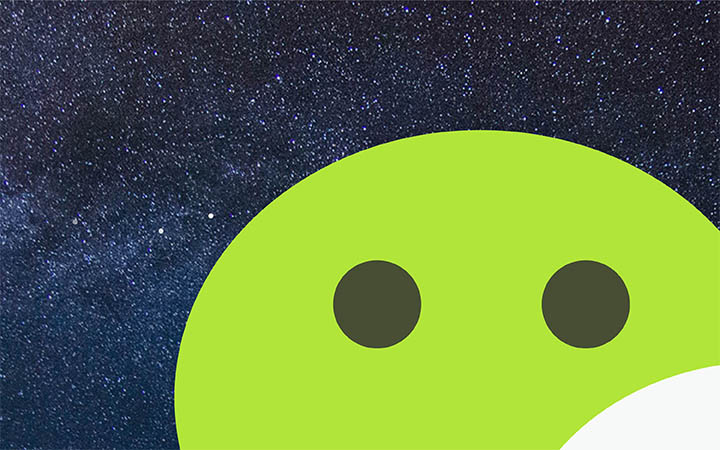
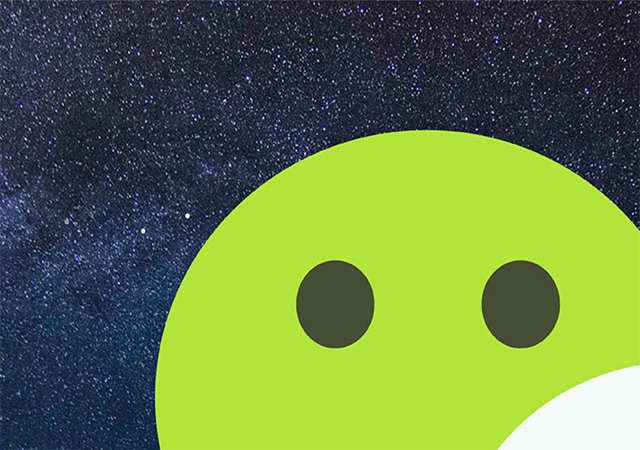
fix bug

diff --git a/trunk/css/index.css b/trunk/css/index.css
@@ -1,1 +1,1 @@
-.art-time,.art-title-wrap,.title-wrap{display:block}.head-date,.head-intro,.head-title,header .banner{position:absolute}.art-title,.as2{overflow:hidden}.sprite-sina-hov{background-position:-156px -172px;width:20px;height:16px}.sprite-weixin-hov{background-position:-741px -172px;width:21px;height:19px}.sprite-yixin-hov{background-position:-741px -191px;width:16px;height:16px}.sprite-videohov{background-position:-629px -172px;width:21px;height:21px}.sprite-radiohov{background-position:-655px -133px;width:26px;height:26px}/*!=header=*/header .main{height:520px}header .banner{top:0;left:50%;margin-left:-960px}.sprite-nav,.sprite-search{position:absolute;top:30px;cursor:pointer;transform:scale(.8)}.more-wrap .sprite-moreclose,.more-wrap .sprite-search2,.sprite-nav,.sprite-search{-webkit-transform:scale(.8);-moz-transform:scale(.8);-ms-transform:scale(.8);-o-transform:scale(.8)}.sprite-nav{left:0;z-index:50}.sprite-search{right:0;z-index:50}.head-title{padding:11px;border:1px solid #f2f2f2;width:400px;top:250px;left:24px;border-radius:4px}.head-title,.title-wrap{height:56px;-webkit-border-radius:4px;-moz-border-radius:4px}.title-wrap{width:378px;background:#fff;color:#231915;padding-left:22px;line-height:56px;font-size:26px;text-decoration:none;border-radius:4px}.head-intro{width:386px;color:#fff;font-size:14px;line-height:22px;left:37px;top:354px;text-shadow:0 0 1px #000;margin:0}.head-date{top:220px;left:25px}.head-date-title{font-size:36px;line-height:36px;color:#fff;float:left}.head-date-title span{color:#FAEE00;padding-right:6px}.head-date-time{color:#fff;float:left;margin:17px 0 0 12px}.head-date-time i{display:inline-block;width:10px;height:10px;margin-right:2px;background:#fff}.index h1,.ny h1{width:100%;height:86px;background:#e4b524;position:relative;z-index:60;box-shadow:0 2px 6px #ADADAD}.as1,.hot-img,.hot-list{box-shadow:0 0 4px #e2e2e2}.index h1 .sprite-nav,.index h1 .sprite-search,.ny h1 .sprite-nav,.ny h1 .sprite-search{display:none}.index h1 .main-title,.ny h1 .main-title{font-family:Arial,sans-serif;font-weight:400;width:392px;height:53px;padding-top:12px;background:#fff;border-left:1px solid #eaeaea;border-right:1px solid #eaeaea;position:absolute;left:50%;top:32px;margin-left:-196px;color:#F2C526;font-size:36px;line-height:26px;text-align:center}.art-col,.art-title-wrap{width:100%;position:relative}.phone,.qrcode-wrap blockquote strong{font-weight:700}.index h1 .main-sub-title,.ny h1 .main-sub-title{display:block;color:#b5b5b5;font-size:10px}.art-col{height:188px;margin-bottom:75px}.art-title-wrap:hover{background:#f7f8f8}.art-time{width:74px;height:73px;background:url(../img/t-time.png) no-repeat;text-align:center;line-height:73px;color:#282828;position:absolute;top:12px;left:8px;z-index:35}.art-author{color:#3e3c3a;position:absolute;top:26px;left:84px}.art-img,.art-title{position:absolute;display:block;left:0}.art-title{width:100%;height:74px;background:#efefef;color:#3d3d3a;font-size:24px;line-height:74px;top:0;text-indent:312px}.art-title-wrap:hover .art-title{color:#000}.art-img{top:47px;z-index:30}.art-share a,.art-share i,.art-tag i{font-style:normal;display:inline-block}.art-intro{color:#6c6c6c;font-size:14px;width:442px;position:absolute;left:320px;top:100px}.art-bottom{width:476px;position:absolute;top:168px;left:313px}.art-tag{float:left}.art-tag i{color:#f5b72d;margin-right:16px}.art-share{float:right}.footer-share li,.mail-area i,.mail-area input,.more-wrap .as-col,.mt-link li,.nav-col ul li{float:left}.art-share a,.art-share i{margin-right:9px;color:#6f6e6e}.art-share a{cursor:pointer;transition:none}.sprite-sina:hover{background-position:-156px -172px;width:20px;height:16px}.sprite-weixin:hover{background-position:-741px -172px;width:21px;height:19px}.sprite-yixin:hover{background-position:-741px -191px;width:16px;height:16px}.art-img-percent,.art-img-title,.art-img-wrap{display:block;width:100%}.art-img-wrap{background:#efefef;height:255px;margin-bottom:75px;position:relative}.art-img-tag{color:#b6b6b6;font-size:22px;position:absolute;top:20px;left:20px}.art-img-percent,.art-img-time,.art-img-title,.as1,.mail-area i,.sprite-video{position:relative}.art-img-percent{color:#f3c626;font-size:72px;line-height:72px;text-align:center;top:50px}.art-img-percent i{font-size:21px;font-style:normal}.art-img-time{display:block;text-align:center;font-size:12px;line-height:20px;top:38px;color:#b6b6b6}.sprite-video{margin:0 auto;top:40px}.art-img-title{text-align:center;font-size:24px;color:#6b6b68;top:58px;line-height:28px}.art-img-wrap:hover{background:#f7f8f8}.art-img-wrap:hover .art-img-percent{color:#f9a717}.art-img-wrap:hover .sprite-video{background-position:-629px -172px;width:21px;height:21px}.as-col{margin:0 14px 50px}.as-title{font-size:20px;color:#232323}.index aside .login,.ny aside .login{display:block;width:280px;height:50px;line-height:50px;text-align:center;cursor:pointer;background:#f1c625;color:#fffffc;font-size:16px;margin:24px auto 12px}.as1{width:100%;height:312px;background:#fff}.as1 p{text-align:center;color:#373737;font-size:14px;margin:0}.mail-area{margin:0 18px;padding-top:30px}.mail-area i{top:9px;margin-right:6px}.copyright,.footer-share,.phone,.phone i,.qrcode-wrap,.sprite-about{position:absolute}.mail-txt{width:189px;height:37px;border:1px solid #c4c4c4;line-height:37px;padding:0 0 0 14px;font-size:14px;margin:0}.mail-btn{display:block;width:246px;height:42px;background:#f1c625;color:#fffffc;font-size:16px;text-align:center;line-height:42px;margin:8px auto 14px;cursor:pointer}.index aside .login:hover,.mail-btn:hover,.ny aside .login:hover{background:#f9a717}.qrcode{display:block;margin:0 auto}.mt-link{margin-left:-36px;width:320px}.mt-link li{margin-right:30px;width:75px;list-style:none;margin-bottom:25px}.mt-link li a{color:#616161;font-size:14px}.mt-link li a:hover{color:#f9a717}.hot-img a,.hot-img li a,.hot-list li a{color:#232323;font-size:16px}.hot-img,.hot-list{width:280px;height:190px;background:#fff;margin-bottom:18px;overflow:hidden}.hot-img ul,.hot-list ul{display:block;margin:17px 0 0 6px;padding:0}.hot-img li,.hot-list li{list-style:none;padding:0;margin-bottom:4px}.hot-img{height:176px}.hot-img a{display:block;margin:16px 0 10px 6px}.footer-share{top:30px;left:0}.footer-share li{list-style:none;margin-right:10px}.copyright{color:#AEADAD;font-size:12px;top:148px;left:45px}.phone{color:#FF7300;font-size:58px;right:20px;top:20px;font-family:Impact,Arial,sans-serif}.phone i{right:0;bottom:-84px}.sprite-about{right:60px;top:140px}.qrcode-wrap{display:none;z-index:101}.qrcode-wrap p{font-size:18px;color:#595757;margin:18px 0 10px 50px}.qrcode-wrap blockquote{margin:0 0 10px 50px;color:#595757;font-size:14px}.qrcode-wrap img{display:block;margin-left:160px}footer .qrcode-wrap{top:-150px}.art-bottom .qrcode-wrap{top:-222px}#qrwrap{left:116px}#qrwrap2{left:344px}.qrwrap3{left:444px}.qrwrap4{left:471px}#index-wx,#index-yixin{position:relative}.more-wrap{position:fixed;width:100%;height:100%;z-index:102;display:none;top:0}.more-wrap .more-bg{background:#fff;opacity:.95;width:100%;height:100%;position:absolute;top:0;left:0}.more-wrap .sprite-moreclose,.more-wrap .sprite-search2{position:absolute;top:-75px;transform:scale(.8)}.more-wrap .sprite-moreclose{left:0;cursor:pointer}.more-wrap .sprite-search2{right:0}.more-wrap .as1{width:282px;margin-right:57px}.more-wrap .as3{width:236px;color:#595757;font-size:18px;line-height:35px}.more-wrap .as-intro{padding-left:25px;border-left:1px solid #c2c2c2;margin-left:107px}.nav-col h2{font-size:24px;color:#3E3A39;margin:110px 0 70px}.more-share,.nav-col ul li a{display:block;font-size:18px}.nav-col .sprite,.nav-col span{float:left;position:relative}.nav-col .sprite{top:4px;margin-right:8px}.nav-col span{line-height:24px;padding-bottom:10px;border-bottom:2px solid #3f3f3f}.pop1,.pop2{padding:0 75px}.nav-col ul{width:590px}.nav-col ul li{list-style:none;margin-right:55px;margin-bottom:36px}.nav-col ul li a{width:60px;color:#595757}.nav-col ul li a:hover{color:#f6a717}.more-share{width:295px;height:90px;line-height:90px;border-bottom:1px solid #c2c2c2;margin-bottom:20px;font-family:Candara,sans-serif;color:#3C4148}.more-share .sprite{display:inline-block;position:relative;top:20px;margin-right:24px}.pop{position:fixed;left:50%;top:50%;z-index:999;background:#fff;display:none}.pop .pop-btn{display:block;margin:20px auto;width:260px;height:50px;line-height:50px;color:#fff;background:#F2C526;text-align:center;font-size:24px;cursor:pointer}.pop .pop-btn:hover{background:#f6a717}.pop1{width:542px;margin-left:-346px}.pop1 .pop-title{color:#C9CACA;font-size:34px;line-height:34px;margin-bottom:50px}.pop1 .mail-list input{display:none}.pop1 .mail-list li{width:495px;height:67px;line-height:67px;list-style:none;position:relative}.pop1 .mail-list .sprite{position:absolute;top:22px;right:0}.pop1 .mail-list-name{display:block;width:100%;height:100%;color:#898989;font-size:24px;margin:0;cursor:pointer}.mail-list li :checked+.mail-list-name{color:#000}.mail-list li :checked+.mail-list-name i{background-position:-655px -133px;width:26px;height:26px}#select-all{color:#898989;font-size:14px;position:absolute;right:44px;top:40px}.pop2{width:500px;margin-left:-325px;height:320px;margin-top:-160px}.pop2 .suc-wrap{width:457px;height:113px;padding-bottom:34px;border-bottom:1px solid #F9A717;margin:65px auto 0;position:relative}.pop2 .sprite{position:absolute;top:0;left:0}.pop2 h2,.pop2 p{position:absolute;left:120px}.pop2 h2{color:#F9A818;font-size:48px;top:0}.pop2 p{color:#9FA0A0;font-size:24px;line-height:24px;top:62px}.pop3{width:480px;height:280px;margin-left:-240px;margin-top:-140px}.pop3 .pop-title{color:#C9CACA;font-size:34px;text-align:center;margin:74px 0 58px}.pop3 .pop-btn{display:inline-block;margin-left:100px;margin-right:6px}.pop3 .pop-close{display:inline-block;color:#2EA7E0;font-size:14px;cursor:pointer}@media screen and (max-width:1200px){.art-title,.copyright,.mail-area,.phone{text-align:center}#wrap{width:100%;min-width:100%}.main{width:auto;margin:0 3.333%}article{width:100%}header,header .main{height:450px}header .banner{height:100%;width:auto;-webkit-transform:translate3D(-50%,0,0);-moz-transform:translate3D(-50%,0,0);-ms-transform:translate3D(-50%,0,0);-o-transform:translate3D(-50%,0,0);transform:translate3D(-50%,0,0);margin:0}.head-date{top:130px}.head-title{top:170px;width:83%}.title-wrap{width:92%;font-size:18px}.head-intro{top:273px;width:83%}.more-wrap .sprite-moreclose,.more-wrap .sprite-search2,.sprite-nav,.sprite-search{-webkit-transform:scale(.75);-moz-transform:scale(.75);-ms-transform:scale(.75);-o-transform:scale(.75);transform:scale(.75)}.more-wrap .sprite-nav,.more-wrap .sprite-search{top:-145px}.sprite-moreclose,.sprite-search2{top:-100px}h1{height:65px}h1 .main-title{top:20px}.art-col{height:auto}.art-author{display:none}.art-img{width:100%;position:static}.art-title{font-size:19px;text-indent:66px;position:relative}.art-time{top:34px;left:0}.art-intro{position:static;width:100%;font-size:18px;line-height:1.5}.art-bottom{width:100%;position:relative;top:0;left:0}.art-share a,.art-share i,.art-tag i{font-size:14px}h1 .main-title{width:57.22%;margin-left:-28%}.hot-img,.hot-list,.mt-link,aside{width:100%}.mail-area i,.mail-area input{display:inline-block;float:none}.hot-img img{width:100%;display:block}.footer-share{width:346px;-webkit-transform:scale(.5);-moz-transform:scale(.5);-ms-transform:scale(.5);-o-transform:scale(.5);transform:scale(.5);margin:0 auto;padding:0;position:static}.copyright,.phone,.qrcode-wrap{-webkit-transform:scale(.7);-moz-transform:scale(.7);-ms-transform:scale(.7);-o-transform:scale(.7);transform:scale(.7)}.copyright,.phone,.sprite-about{position:relative;margin:0;left:0}.copyright{position:relative;top:-22px;left:0}.phone{top:-10px;right:0;margin-bottom:10px}.sprite-about{margin:0 auto;left:0;top:0}.qrcode-wrap{left:-3%;top:-123px}.sprite-phone{display:none}.more-wrap{position:absolute}.more-wrap .as1,.more-wrap .as3{width:100%}.more-wrap .as-col{float:none;border:0;padding:0}.more-wrap .as-intro{margin-left:0}.nav-col ul{width:90%;margin:0 auto;padding:0}#qrwrap2{left:162px}}
+.art-title,.as2{overflow:hidden}.sprite-sina-hov{background-position:-156px -172px;width:20px;height:16px}.sprite-weixin-hov{background-position:-741px -172px;width:21px;height:19px}.sprite-yixin-hov{background-position:-741px -191px;width:16px;height:16px}.sprite-videohov{background-position:-629px -172px;width:21px;height:21px}.sprite-radiohov{background-position:-655px -133px;width:26px;height:26px}/*!=header=*/header .main{height:520px}header .banner,header .banner_s{position:absolute;top:0;left:50%;-webkit-transform:translate3d(-50%,0,0);-moz-transform:translate3d(-50%,0,0);-ms-transform:translate3d(-50%,0,0);transform:translate3d(-50%,0,0)}header .banner_s{display:none}.art-time,.art-title-wrap,.title-wrap{display:block}.sprite-nav,.sprite-search{position:absolute;top:30px;transform:scale(.8)}.more-wrap .sprite-moreclose,.more-wrap .sprite-search2,.sprite-nav,.sprite-search{cursor:pointer;-webkit-transform:scale(.8);-moz-transform:scale(.8);-ms-transform:scale(.8);-o-transform:scale(.8)}.sprite-nav{left:0;z-index:50}.sprite-search{right:0;z-index:50}.head-title{padding:11px;border:1px solid #f2f2f2;width:400px;position:absolute;top:250px;left:24px;border-radius:4px}.head-title,.title-wrap{height:56px;-webkit-border-radius:4px;-moz-border-radius:4px}.title-wrap{width:378px;background:#fff;color:#231915;padding-left:22px;line-height:56px;font-size:26px;text-decoration:none;border-radius:4px}.head-intro{width:386px;color:#fff;font-size:14px;line-height:22px;position:absolute;left:37px;top:354px;text-shadow:0 0 1px #000;margin:0}.head-date{position:absolute;top:220px;left:25px}.head-date-title{font-size:36px;line-height:36px;color:#fff;float:left}.head-date-title span{color:#FAEE00;padding-right:6px}.head-date-time{color:#fff;float:left;margin:17px 0 0 12px}.head-date-time i{display:inline-block;width:10px;height:10px;margin-right:2px;background:#fff}.index h1,.ny h1{width:100%;height:86px;background:#e4b524;position:relative;z-index:60;box-shadow:0 2px 6px #ADADAD}.as1,.hot-img,.hot-list{box-shadow:0 0 4px #e2e2e2}.index h1 .sprite-nav,.index h1 .sprite-search,.ny h1 .sprite-nav,.ny h1 .sprite-search{display:none}.index h1 .main-title,.ny h1 .main-title{font-family:Arial,sans-serif;font-weight:400;width:392px;height:53px;padding-top:12px;background:#fff;border-left:1px solid #eaeaea;border-right:1px solid #eaeaea;position:absolute;left:50%;top:32px;margin-left:-196px;color:#F2C526;font-size:36px;line-height:26px;text-align:center}.art-col,.art-title-wrap{width:100%;position:relative}.phone,.qrcode-wrap blockquote strong{font-weight:700}.index h1 .main-sub-title,.ny h1 .main-sub-title{display:block;color:#b5b5b5;font-size:10px}.art-col{height:188px;margin-bottom:75px}.art-title-wrap:hover{background:#f7f8f8}.art-time{width:74px;height:73px;background:url(../img/t-time.png) no-repeat;text-align:center;line-height:73px;color:#282828;position:absolute;top:12px;left:8px;z-index:35}.art-author{color:#3e3c3a;position:absolute;top:26px;left:84px}.art-img,.art-title{position:absolute;display:block;left:0}.art-title{width:100%;height:74px;background:#efefef;color:#3d3d3a;font-size:24px;line-height:74px;top:0;text-indent:312px}.art-title-wrap:hover .art-title{color:#000}.art-img{top:47px;z-index:30}.art-share a,.art-share i,.art-tag i{font-style:normal;display:inline-block}.art-intro{color:#6c6c6c;font-size:14px;width:442px;position:absolute;left:320px;top:100px}.art-bottom{width:476px;position:absolute;top:168px;left:313px}.art-tag{float:left}.art-tag i{color:#f5b72d;margin-right:16px}.art-share{float:right}.art-share a,.art-share i{margin-right:9px;color:#6f6e6e}.art-share a{cursor:pointer;transition:none}.sprite-sina:hover{background-position:-156px -172px;width:20px;height:16px}.sprite-weixin:hover{background-position:-741px -172px;width:21px;height:19px}.sprite-yixin:hover{background-position:-741px -191px;width:16px;height:16px}.art-img-percent,.art-img-title,.art-img-wrap{display:block;width:100%}.art-img-wrap{background:#efefef;height:255px;margin-bottom:75px;position:relative}.art-img-tag{color:#b6b6b6;font-size:22px;position:absolute;top:20px;left:20px}.art-img-percent,.art-img-time,.art-img-title,.as1,.mail-area i,.sprite-video{position:relative}.art-img-percent{color:#f3c626;font-size:72px;line-height:72px;text-align:center;top:50px}.art-img-percent i{font-size:21px;font-style:normal}.art-img-time{display:block;text-align:center;font-size:12px;line-height:20px;top:38px;color:#b6b6b6}.sprite-video{margin:0 auto;top:40px}.art-img-title{text-align:center;font-size:24px;color:#6b6b68;top:58px;line-height:28px}.art-img-wrap:hover{background:#f7f8f8}.art-img-wrap:hover .art-img-percent{color:#f9a717}.art-img-wrap:hover .sprite-video{background-position:-629px -172px;width:21px;height:21px}.as-col{margin:0 14px 50px}.as-title{font-size:20px;color:#232323}.index aside .login,.ny aside .login{display:block;width:280px;height:50px;line-height:50px;text-align:center;cursor:pointer;background:#f1c625;color:#fffffc;font-size:16px;margin:24px auto 12px}.as1{width:100%;height:312px;background:#fff}.as1 p{text-align:center;color:#373737;font-size:14px;margin:0}.mail-area{margin:0 18px;padding-top:30px}.mail-area i,.mail-area input{float:left}.mail-area i{top:9px;margin-right:6px}.copyright,.footer-share,.phone,.phone i,.qrcode-wrap,.sprite-about{position:absolute}.mail-txt{width:189px;height:37px;border:1px solid #c4c4c4;line-height:37px;padding:0 0 0 14px;font-size:14px;margin:0}.mail-btn{display:block;width:246px;height:42px;background:#f1c625;color:#fffffc;font-size:16px;text-align:center;line-height:42px;margin:8px auto 14px;cursor:pointer}.index aside .login:hover,.mail-btn:hover,.ny aside .login:hover{background:#f9a717}.qrcode{display:block;margin:0 auto}.mt-link{margin-left:-36px;width:320px}.mt-link li{float:left;margin-right:30px;width:75px;list-style:none;margin-bottom:25px}.mt-link li a{color:#616161;font-size:14px}.mt-link li a:hover{color:#f9a717}.hot-img a,.hot-img li a,.hot-list li a{color:#232323;font-size:16px}.hot-img,.hot-list{width:280px;height:190px;background:#fff;margin-bottom:18px;overflow:hidden}.hot-img ul,.hot-list ul{display:block;margin:17px 0 0 6px;padding:0}.hot-img li,.hot-list li{list-style:none;padding:0;margin-bottom:4px}.hot-img{height:176px}.hot-img a{display:block;margin:16px 0 10px 6px}.footer-share{top:30px;left:0}.footer-share li{list-style:none;float:left;margin-right:10px}.copyright{color:#AEADAD;font-size:12px;top:148px;left:45px}.phone{color:#FF7300;font-size:58px;right:20px;top:20px;font-family:Impact,Arial,sans-serif}.phone i{right:0;bottom:-84px}.sprite-about{right:60px;top:140px}.qrcode-wrap{display:none;z-index:101}.qrcode-wrap p{font-size:18px;color:#595757;margin:18px 0 10px 50px}.qrcode-wrap blockquote{margin:0 0 10px 50px;color:#595757;font-size:14px}.qrcode-wrap img{display:block;margin-left:160px}footer .qrcode-wrap{top:-150px}.art-bottom .qrcode-wrap{top:-222px}#qrwrap{left:116px}#qrwrap2{left:344px}.qrwrap3{left:444px}.qrwrap4{left:471px}#index-wx,#index-yixin{position:relative}.more-wrap{position:fixed;width:100%;height:100%;z-index:102;display:none;top:0}.more-wrap .more-bg{background:#fff;opacity:.95;width:100%;height:100%;position:absolute;top:0;left:0}.more-wrap .sprite-moreclose,.more-wrap .sprite-search2{position:absolute;top:-75px;transform:scale(.8)}.more-wrap .sprite-moreclose{left:0;cursor:pointer}.more-wrap .sprite-search2{right:0}.more-wrap .as1{width:282px;margin-right:57px}.more-wrap .as-col{float:left}.more-wrap .as3{width:236px;color:#595757;font-size:18px;line-height:35px}.more-wrap .as-intro{padding-left:25px;border-left:1px solid #c2c2c2;margin-left:107px}.nav-col h2{font-size:24px;color:#3E3A39;margin:110px 0 70px}.more-share,.nav-col ul li a{display:block;font-size:18px}.nav-col .sprite,.nav-col span{float:left;position:relative}.nav-col .sprite{top:4px;margin-right:8px}.nav-col span{line-height:24px;padding-bottom:10px;border-bottom:2px solid #3f3f3f}.nav-col ul{width:590px}.nav-col ul li{float:left;list-style:none;margin-right:55px;margin-bottom:36px}.nav-col ul li a{width:60px;color:#595757}.nav-col ul li a:hover{color:#f6a717}.more-share{width:295px;height:90px;line-height:90px;border-bottom:1px solid #c2c2c2;margin-bottom:20px;font-family:Candara,sans-serif;color:#3C4148}.more-share .sprite{display:inline-block;position:relative;top:20px;margin-right:24px}#search-wrap .sprite-moreclose,#search-wrap .sprite-search2{top:-2px}#search-wrap .search-input-wrap{width:100%;height:28px;padding-bottom:8px;border-bottom:1px solid #9FA0A0;margin:29px 0 40px}#search-wrap .search-txt{height:28px;line-height:28px;width:94%;border:0;background:0;padding:0 2% 0 0;color:#F9A818;font-size:24px;text-align:right;border-right:1px solid #f9a818}.pop1,.pop2{padding:0 75px}#search-wrap .search-txt::-webkit-input-placeholder{color:#B5B5B6}#search-wrap .search-txt:-ms-input-placeholder{color:#B5B5B6}#search-wrap .search-txt::-moz-placeholder{color:#B5B5B6}#search-wrap .nav-col h2{margin:0 0 33px}.result-wrap{width:100%;height:555px;overflow-y:scroll}.search-col{width:758px;margin-bottom:60px}.search-img{float:left;margin-right:20px}.search-title{font-size:22px;color:#3E3A39;display:block;margin-bottom:22px}.search-intro{color:#565656;font-size:14px;line-height:24px;height:68px;overflow:hidden}.search-intro strong{color:#f9a818}.search-author,.search-time{color:#282828;font-weight:700}.pop{position:fixed;left:50%;top:50%;z-index:999;background:#fff;display:none}.pop .pop-btn{display:block;margin:20px auto;width:260px;height:50px;line-height:50px;color:#fff;background:#F2C526;text-align:center;font-size:24px;cursor:pointer}.pop .pop-btn:hover{background:#f6a717}.pop1{width:542px;margin-left:-346px}.pop1 .pop-title{color:#C9CACA;font-size:34px;line-height:34px;margin-bottom:50px}.pop1 .mail-list input{display:none}.pop1 .mail-list li{width:495px;height:67px;line-height:67px;list-style:none;position:relative}.pop1 .mail-list .sprite{position:absolute;top:22px;right:0}.pop1 .mail-list-name{display:block;width:100%;height:100%;color:#898989;font-size:24px;margin:0;cursor:pointer}.mail-list li :checked+.mail-list-name{color:#000}.mail-list li :checked+.mail-list-name i{background-position:-655px -133px;width:26px;height:26px}#select-all{color:#898989;font-size:14px;position:absolute;right:44px;top:40px}.pop2{width:500px;margin-left:-325px;height:320px;margin-top:-160px}.pop2 .suc-wrap{width:457px;height:113px;padding-bottom:34px;border-bottom:1px solid #F9A717;margin:65px auto 0;position:relative}.pop2 .sprite{position:absolute;top:0;left:0}.pop2 h2,.pop2 p{position:absolute;left:120px}.pop2 h2{color:#F9A818;font-size:48px;top:0}.pop2 p{color:#9FA0A0;font-size:24px;line-height:24px;top:62px}.pop3{width:480px;height:280px;margin-left:-240px;margin-top:-140px}.pop3 .pop-title{color:#C9CACA;font-size:34px;text-align:center;margin:74px 0 58px}.pop3 .pop-btn{display:inline-block;margin-left:100px;margin-right:6px}.pop3 .pop-close{display:inline-block;color:#2EA7E0;font-size:14px;cursor:pointer}@media screen and (max-width:1200px){.art-title,.copyright,.mail-area,.phone{text-align:center}#wrap{width:100%;min-width:100%}.main{width:auto;margin:0 3.333%}article{width:100%}header,header .main{height:450px}header .banner{display:none}header .banner_s{display:block;width:100%;height:100%}.head-date{top:130px}.head-title{top:170px;width:83%}.title-wrap{width:92%;font-size:18px}.head-intro{top:273px;width:83%}.more-wrap .sprite-moreclose,.more-wrap .sprite-search2,.sprite-nav,.sprite-search{-webkit-transform:scale(.75);-moz-transform:scale(.75);-ms-transform:scale(.75);-o-transform:scale(.75);transform:scale(.75)}.more-wrap .sprite-nav,.more-wrap .sprite-search{top:-145px}.sprite-moreclose,.sprite-search2{top:-100px}h1{height:65px}.index h1 .main-title,.ny h1 .main-title{width:57.22%;margin-left:-28%}.art-bottom,.art-img,.art-intro,.hot-img,.hot-list,.mt-link,aside{width:100%}.art-col{height:auto}.art-author{display:none}.art-img{position:static}.art-title{font-size:19px;text-indent:66px;position:relative}.art-time{top:34px;left:0}.art-intro{position:static;font-size:18px;line-height:1.5}.art-bottom{position:relative;top:0;left:0}.art-share a,.art-share i,.art-tag i{font-size:14px}.mail-area i,.mail-area input{display:inline-block;float:none}.hot-img img{width:100%;display:block}.footer-share{width:346px;-webkit-transform:scale(.5);-moz-transform:scale(.5);-ms-transform:scale(.5);-o-transform:scale(.5);transform:scale(.5);margin:0 auto;padding:0;position:static}.copyright,.phone,.qrcode-wrap{-webkit-transform:scale(.7);-moz-transform:scale(.7);-ms-transform:scale(.7);-o-transform:scale(.7);transform:scale(.7)}.copyright,.phone,.sprite-about{position:relative;margin:0;left:0}.copyright{position:relative;top:-22px;left:0}.phone{top:-10px;right:0;margin-bottom:10px}.sprite-about{margin:0 auto;left:0;top:0}.qrcode-wrap{left:-3%;top:-123px}.sprite-phone{display:none}.more-wrap{position:absolute}.more-wrap .as1,.more-wrap .as3{width:100%}.more-wrap .as-col{float:none;border:0;padding:0}.more-wrap .as-intro{margin-left:0}.nav-col ul{width:90%;margin:0 auto;padding:0}#qrwrap2{left:162px}}

diff --git a/trunk/index.html b/trunk/index.html
@@ -21,8 +21,8 @@
     <nav class="more-wrap" id="more-wrap">
         <div class="more-bg"></div>
         <div class="main">
-            <a class="sprite sprite-moreclose" id="nav-close"></a>
-            <a href="" class="sprite sprite-search2"></a>
+            <a class="sprite sprite-moreclose nav-close"></a>
+            <a class="sprite sprite-search2"></a>
             <div class="nav-col">
                 <h2 class="g-clr"><i class="sprite sprite-tag2"></i><span>文章标签</span></h2>
                 <ul class="g-clr">
@@ -67,15 +67,92 @@
             </div>
         </div>
     </nav>
-    <div class="search-wrap" id="search-wrap">
+    <div class="more-wrap" id="search-wrap">
         <div class="more-bg"></div>
+        <div class="main">
+            <a class="sprite sprite-moreclose nav-close"></a>
+            <a class="sprite sprite-search2"></a>
+            <div class="search-input-wrap">
+                <input type="text" placeholder="搜索文字" class="search-txt"/>
+            </div>
+            <div class="nav-col">
+                <h2 class="as-title g-clr">
+                    <i class="sprite sprite-result"></i>
+                    <span>共有<i id="search-num">16</i>篇相关报告</span></h2>
+            </div>
+            <!-- 搜索结果 Start-->
+            <div class="result-wrap">
+                <!-- 图文列表 start-->
+                <div class="search-col g-clr">
+                    <a href="#" class="search-title-wrap" target="_blank" title="2015年3月通信运营数据4G用户数达1.6亿">
+                        <img src="test.jpg" alt="2015年3月通信运营数据4G用户数达1.6亿" class="search-img"/>
+                        <span class="search-title">2015年3月通信运营数据4G用户数达1.6亿</span>
+                        <p class="search-intro">工信部近日<strong>发布</strong>3月份通信数据。数据显示，截至3月底，我国4G总用户数达到1.62亿，8M及以上宽带用户占比达46.4%。</p>
+                        <span class="search-author">Mr.Kang</span> \ <span class="search-time">昨天下午</span>
+                    </a>
+                </div>
+                <!-- 图文列表 end-->
+                <!-- 图文列表 start-->
+                <div class="search-col g-clr">
+                    <a href="#" class="search-title-wrap" target="_blank" title="2015年3月通信运营数据4G用户数达1.6亿">
+                        <img src="test.jpg" alt="2015年3月通信运营数据4G用户数达1.6亿" class="search-img"/>
+                        <span class="search-title">2015年3月通信运营数据4G用户数达1.6亿</span>
+                        <p class="search-intro">工信部近日<strong>发布</strong>3月份通信数据。数据显示，截至3月底，我国4G总用户数达到1.62亿，8M及以上宽带用户占比达46.4%。</p>
+                        <span class="search-author">Mr.Kang</span> \ <span class="search-time">昨天下午</span>
+                    </a>
+                </div>
+                <!-- 图文列表 end-->
+                <!-- 图文列表 start-->
+                <div class="search-col g-clr">
+                    <a href="#" class="search-title-wrap" target="_blank" title="2015年3月通信运营数据4G用户数达1.6亿">
+                        <img src="test.jpg" alt="2015年3月通信运营数据4G用户数达1.6亿" class="search-img"/>
+                        <span class="search-title">2015年3月通信运营数据4G用户数达1.6亿</span>
+                        <p class="search-intro">工信部近日<strong>发布</strong>3月份通信数据。数据显示，截至3月底，我国4G总用户数达到1.62亿，8M及以上宽带用户占比达46.4%。</p>
+                        <span class="search-author">Mr.Kang</span> \ <span class="search-time">昨天下午</span>
+                    </a>
+                </div>
+                <!-- 图文列表 end-->
+                <!-- 图文列表 start-->
+                <div class="search-col g-clr">
+                    <a href="#" class="search-title-wrap" target="_blank" title="2015年3月通信运营数据4G用户数达1.6亿">
+                        <img src="test.jpg" alt="2015年3月通信运营数据4G用户数达1.6亿" class="search-img"/>
+                        <span class="search-title">2015年3月通信运营数据4G用户数达1.6亿</span>
+                        <p class="search-intro">工信部近日<strong>发布</strong>3月份通信数据。数据显示，截至3月底，我国4G总用户数达到1.62亿，8M及以上宽带用户占比达46.4%。</p>
+                        <span class="search-author">Mr.Kang</span> \ <span class="search-time">昨天下午</span>
+                    </a>
+                </div>
+                <!-- 图文列表 end-->
+                <!-- 图文列表 start-->
+                <div class="search-col g-clr">
+                    <a href="#" class="search-title-wrap" target="_blank" title="2015年3月通信运营数据4G用户数达1.6亿">
+                        <img src="test.jpg" alt="2015年3月通信运营数据4G用户数达1.6亿" class="search-img"/>
+                        <span class="search-title">2015年3月通信运营数据4G用户数达1.6亿</span>
+                        <p class="search-intro">工信部近日<strong>发布</strong>3月份通信数据。数据显示，截至3月底，我国4G总用户数达到1.62亿，8M及以上宽带用户占比达46.4%。</p>
+                        <span class="search-author">Mr.Kang</span> \ <span class="search-time">昨天下午</span>
+                    </a>
+                </div>
+                <!-- 图文列表 end-->
+                <!-- 图文列表 start-->
+                <div class="search-col g-clr">
+                    <a href="#" class="search-title-wrap" target="_blank" title="2015年3月通信运营数据4G用户数达1.6亿">
+                        <img src="test.jpg" alt="2015年3月通信运营数据4G用户数达1.6亿" class="search-img"/>
+                        <span class="search-title">2015年3月通信运营数据4G用户数达1.6亿</span>
+                        <p class="search-intro">工信部近日<strong>发布</strong>3月份通信数据。数据显示，截至3月底，我国4G总用户数达到1.62亿，8M及以上宽带用户占比达46.4%。</p>
+                        <span class="search-author">Mr.Kang</span> \ <span class="search-time">昨天下午</span>
+                    </a>
+                </div>
+                <!-- 图文列表 end-->
+            </div>
+
+            <!-- 搜索结果 End-->
+        </div>
     </div>
     <header>
         <img src="banner.jpg" alt="大家，在微信上经常干的事" class="banner"/>
-
+        <img src="banner_s.jpg" alt="大家，在微信上经常干的事" class="banner_s"/>
         <div class="main">
-            <a class="sprite sprite-nav nav-open"></a>
-            <a href="" class="sprite sprite-search"></a>
+            <a class="sprite sprite-nav" id="nav-open"></a>
+            <a class="sprite sprite-search" id="search-open"></a>
             <div class="head-date">
                 <div class="head-date-title"><span>NEW</span>DATA</div>
                 <div class="head-date-time"><i></i>2015.5/13</div>

diff --git a/trunk/ny.html b/trunk/ny.html
@@ -22,8 +22,8 @@
     <nav class="more-wrap" id="more-wrap">
         <div class="more-bg"></div>
         <div class="main">
-            <a class="sprite sprite-moreclose" id="nav-close"></a>
-            <a href="" class="sprite sprite-search2"></a>
+            <a class="sprite sprite-moreclose nav-close"></a>
+            <a class="sprite sprite-search2"></a>
             <div class="nav-col">
                 <h2 class="g-clr"><i class="sprite sprite-tag2"></i><span>文章标签</span></h2>
                 <ul class="g-clr">
@@ -69,10 +69,90 @@
         </div>
 
     </nav>
+    <div class="more-wrap" id="search-wrap">
+        <div class="more-bg"></div>
+        <div class="main">
+            <a class="sprite sprite-moreclose nav-close"></a>
+            <a class="sprite sprite-search2"></a>
+            <div class="search-input-wrap">
+                <input type="text" placeholder="搜索文字" class="search-txt"/>
+            </div>
+            <div class="nav-col">
+                <h2 class="as-title g-clr">
+                    <i class="sprite sprite-result"></i>
+                    <span>共有<i id="search-num">16</i>篇相关报告</span></h2>
+            </div>
+            <!-- 搜索结果 Start-->
+            <div class="result-wrap">
+                <!-- 图文列表 start-->
+                <div class="search-col g-clr">
+                    <a href="#" class="search-title-wrap" target="_blank" title="2015年3月通信运营数据4G用户数达1.6亿">
+                        <img src="test.jpg" alt="2015年3月通信运营数据4G用户数达1.6亿" class="search-img"/>
+                        <span class="search-title">2015年3月通信运营数据4G用户数达1.6亿</span>
+                        <p class="search-intro">工信部近日<strong>发布</strong>3月份通信数据。数据显示，截至3月底，我国4G总用户数达到1.62亿，8M及以上宽带用户占比达46.4%。</p>
+                        <span class="search-author">Mr.Kang</span> \ <span class="search-time">昨天下午</span>
+                    </a>
+                </div>
+                <!-- 图文列表 end-->
+                <!-- 图文列表 start-->
+                <div class="search-col g-clr">
+                    <a href="#" class="search-title-wrap" target="_blank" title="2015年3月通信运营数据4G用户数达1.6亿">
+                        <img src="test.jpg" alt="2015年3月通信运营数据4G用户数达1.6亿" class="search-img"/>
+                        <span class="search-title">2015年3月通信运营数据4G用户数达1.6亿</span>
+                        <p class="search-intro">工信部近日<strong>发布</strong>3月份通信数据。数据显示，截至3月底，我国4G总用户数达到1.62亿，8M及以上宽带用户占比达46.4%。</p>
+                        <span class="search-author">Mr.Kang</span> \ <span class="search-time">昨天下午</span>
+                    </a>
+                </div>
+                <!-- 图文列表 end-->
+                <!-- 图文列表 start-->
+                <div class="search-col g-clr">
+                    <a href="#" class="search-title-wrap" target="_blank" title="2015年3月通信运营数据4G用户数达1.6亿">
+                        <img src="test.jpg" alt="2015年3月通信运营数据4G用户数达1.6亿" class="search-img"/>
+                        <span class="search-title">2015年3月通信运营数据4G用户数达1.6亿</span>
+                        <p class="search-intro">工信部近日<strong>发布</strong>3月份通信数据。数据显示，截至3月底，我国4G总用户数达到1.62亿，8M及以上宽带用户占比达46.4%。</p>
+                        <span class="search-author">Mr.Kang</span> \ <span class="search-time">昨天下午</span>
+                    </a>
+                </div>
+                <!-- 图文列表 end-->
+                <!-- 图文列表 start-->
+                <div class="search-col g-clr">
+                    <a href="#" class="search-title-wrap" target="_blank" title="2015年3月通信运营数据4G用户数达1.6亿">
+                        <img src="test.jpg" alt="2015年3月通信运营数据4G用户数达1.6亿" class="search-img"/>
+                        <span class="search-title">2015年3月通信运营数据4G用户数达1.6亿</span>
+                        <p class="search-intro">工信部近日<strong>发布</strong>3月份通信数据。数据显示，截至3月底，我国4G总用户数达到1.62亿，8M及以上宽带用户占比达46.4%。</p>
+                        <span class="search-author">Mr.Kang</span> \ <span class="search-time">昨天下午</span>
+                    </a>
+                </div>
+                <!-- 图文列表 end-->
+                <!-- 图文列表 start-->
+                <div class="search-col g-clr">
+                    <a href="#" class="search-title-wrap" target="_blank" title="2015年3月通信运营数据4G用户数达1.6亿">
+                        <img src="test.jpg" alt="2015年3月通信运营数据4G用户数达1.6亿" class="search-img"/>
+                        <span class="search-title">2015年3月通信运营数据4G用户数达1.6亿</span>
+                        <p class="search-intro">工信部近日<strong>发布</strong>3月份通信数据。数据显示，截至3月底，我国4G总用户数达到1.62亿，8M及以上宽带用户占比达46.4%。</p>
+                        <span class="search-author">Mr.Kang</span> \ <span class="search-time">昨天下午</span>
+                    </a>
+                </div>
+                <!-- 图文列表 end-->
+                <!-- 图文列表 start-->
+                <div class="search-col g-clr">
+                    <a href="#" class="search-title-wrap" target="_blank" title="2015年3月通信运营数据4G用户数达1.6亿">
+                        <img src="test.jpg" alt="2015年3月通信运营数据4G用户数达1.6亿" class="search-img"/>
+                        <span class="search-title">2015年3月通信运营数据4G用户数达1.6亿</span>
+                        <p class="search-intro">工信部近日<strong>发布</strong>3月份通信数据。数据显示，截至3月底，我国4G总用户数达到1.62亿，8M及以上宽带用户占比达46.4%。</p>
+                        <span class="search-author">Mr.Kang</span> \ <span class="search-time">昨天下午</span>
+                    </a>
+                </div>
+                <!-- 图文列表 end-->
+            </div>
+
+            <!-- 搜索结果 End-->
+        </div>
+    </div>
     <h1 id="index-title">
         <div class="main">
-            <a class="sprite sprite-nav nav-open"></a>
-            <a href="" class="sprite sprite-search"></a>
+            <a class="sprite sprite-nav" id="nav-open"></a>
+            <a class="sprite sprite-search" id="search-open"></a>
             <div class="main-title">SMASHING<span class="main-sub-title">We welcome you</span></div>
         </div>
     </h1>

diff --git a/trunk/css/index.less b/trunk/css/index.less
@@ -21,7 +21,8 @@
 /*!=header=*/
 header{
   .main{height: 520px;}
-  .banner{position: absolute;top:0;left:50%;margin-left: -960px;}
+  .banner,.banner_s{position: absolute;top:0;left:50%;-webkit-transform:translate3d(-50%,0,0);-moz-transform:translate3d(-50%,0,0);-ms-transform:translate3d(-50%,0,0);transform:translate3d(-50%,0,0)}
+  .banner_s{display: none}
 }
 .sprite-nav,.sprite-search{position: absolute;top:30px;cursor:pointer;
   -webkit-transform: scale(0.8);
@@ -146,7 +147,7 @@ footer .qrcode-wrap{top:-150px;}
 #index-wx,#index-yixin{position: relative;}
 .more-wrap{position: fixed;width: 100%;height: 100%;z-index: 102;display: none;top:0;
   .more-bg{background: #fff;opacity: .95;width: 100%;height: 100%;position: absolute;top:0;left:0}
-  .sprite-moreclose,.sprite-search2{position: absolute;top:-75px;  -webkit-transform: scale(0.8);
+  .sprite-moreclose,.sprite-search2{position: absolute;top:-75px;  -webkit-transform: scale(0.8);cursor: pointer;
     -moz-transform: scale(0.8);
     -ms-transform: scale(0.8);
     -o-transform: scale(0.8);
@@ -158,6 +159,7 @@ footer .qrcode-wrap{top:-150px;}
   .as3{width: 236px;color: #595757;font-size: 18px;line-height: 35px;}
   .as-intro{padding-left: 25px; border-left:1px solid #c2c2c2;margin-left: 107px;}
 }
+
 .nav-col{
   h2{font-size: 24px;color: #3E3A39;margin: 110px 0 70px 0;}
   .sprite,span{float:left;position:relative;}
@@ -171,6 +173,23 @@ footer .qrcode-wrap{top:-150px;}
 .more-share{display: block;width: 295px;height: 90px;line-height: 90px;border-bottom:1px solid #c2c2c2;margin-bottom: 20px;font-family: "Candara",sans-serif;font-size: 18px;color: #3C4148;
   .sprite{display: inline-block;position: relative;top:20px;margin-right: 24px;}
 }
+#search-wrap{
+  .sprite-moreclose,.sprite-search2{top:-2px;}
+  .search-input-wrap{width: 100%;height: 28px;padding-bottom: 8px;border-bottom:1px solid #9FA0A0;margin:29px 0 40px; }
+  .search-txt{height: 28px;line-height: 28px;width: 94%;border: 0;background: 0;padding: 0 2% 0 0;color: #F9A818;font-size: 24px;text-align: right;border-right: 1px solid #F9A818}
+  .search-txt::-webkit-input-placeholder{color: #B5B5B6;}
+  .search-txt:-ms-input-placeholder{color: #B5B5B6;}
+  .search-txt::-moz-placeholder{color: #B5B5B6;}
+  .nav-col h2{margin: 0 0 33px}
+}
+.result-wrap{width: 100%;height: 140*3+60*2+15px;overflow-y:scroll }
+.search-col{width: 442+296+20px;margin-bottom: 60px;}
+.search-img{float:left;margin-right: 20px}
+.search-title{font-size: 22px;color: #3E3A39;display: block;margin-bottom: 22px;}
+.search-intro{color: #565656;font-size: 14px;line-height: 24px;height: 68px;overflow: hidden;
+  strong{color: #F9A818}
+}
+.search-author,.search-time{color: #282828;font-weight: bold;}
 .pop{
   position: fixed;left:50%;top:50%;z-index: 999;background: #fff;display: none;
   .pop-btn{display: block;margin: 20px auto;width: 260px;height: 50px;line-height: 50px;color: #fff;background: #F2C526;text-align: center;font-size: 24px;cursor:pointer}
@@ -207,12 +226,8 @@ footer .qrcode-wrap{top:-150px;}
   .main{width:auto;margin:0 3.333% }
   article{width: 100%;}
   header,header .main{height: 450px;}
-  header .banner{  height: 100%;  width: auto;
-    -webkit-transform: translate3D(-50%,0,0);
-    -moz-transform: translate3D(-50%,0,0);
-    -ms-transform: translate3D(-50%,0,0);
-    -o-transform: translate3D(-50%,0,0);
-    transform: translate3D(-50%,0,0);margin: 0}
+  header .banner{ display: none}
+  header .banner_s{display: block;width: 100%;  height: 100%;}
   .head-date{top:130px;}
   .head-title{top:170px;width: 83%}
   .title-wrap{width: 92%;font-size: 18px;}
@@ -227,7 +242,9 @@ footer .qrcode-wrap{top:-150px;}
   .more-wrap .sprite-nav,.more-wrap .sprite-search{top:-145px;}
   .sprite-moreclose,.sprite-search2{top:-100px;}
   h1{height: 65px;}
-  h1 .main-title{top:20px;}
+  .index,.ny{
+    h1 .main-title{width: 57.22%;margin-left: -28%;}
+  }
   .art-col{height: auto;}
   .art-author{display: none}
   .art-img{width: 100%;position: static}
@@ -240,7 +257,7 @@ footer .qrcode-wrap{top:-150px;}
   .art-bottom{width:100%;position:relative;top:0;left:0}
   .art-tag i{font-size: 14px;}
   .art-share a, .art-share i{font-size: 14px;}
-  h1 .main-title{width: 57.22%;margin-left: -28%}
+
   aside{width: 100%;}
   .mail-area{text-align: center}
   .mail-area i,.mail-area input{display: inline-block;float:none}

diff --git a/trunk/js/com.js b/trunk/js/com.js
@@ -36,11 +36,14 @@ $(function () {
          * 导航显示
          */
         navShow:function(){
-            $('.nav-open').bind('click',function(){
+            $('#nav-open').bind('click',function(){
                 $('#more-wrap').fadeIn(200)
             })
-            $('#nav-close').bind('click',function(){
-                $('#more-wrap').fadeOut(200)
+            $('#search-open').bind('click',function(){
+                $('#search-wrap').fadeIn(200)
+            })
+            $('.nav-close').bind('click',function(){
+                $(this).closest('.more-wrap').fadeOut(200)
             })
         },
         /**

diff --git a/trunk/login.html b/trunk/login.html
@@ -38,7 +38,7 @@
             </label>
             <label class="login-month"><input type="checkbox" name="select-all"/>一个月免登录</label>
             <input type="button" value="登录" class="submit"/>
-            <a href="#" target="_blank" rel="nofollow" class="forget-password">忘记密码?</a>
+            <a href="forget.html" target="_blank" rel="nofollow" class="forget-password">忘记密码?</a>
         </form>
         <footer>&copy; 2015中国电信集团公司  ICP证号：京ICP备09031924号</footer>
     </section>

diff --git a/trunk/forget.html b/trunk/forget.html
@@ -33,7 +33,7 @@
                 <i class="sprite sprite-email"></i>
                 <input type="text" placeholder="请填写有效邮箱，密码将会发送至该邮箱">
                 <p>验证已发送至邮箱!<br>
-                    请登录<strong>406329428@qq.com</strong>点击修改密码哟~！</p>
+                    请登录<strong>406329428@qq.com</strong>点击查看密码哟~！</p>
             </label>
 
             <input type="button" value="立即发送" class="submit"/>
